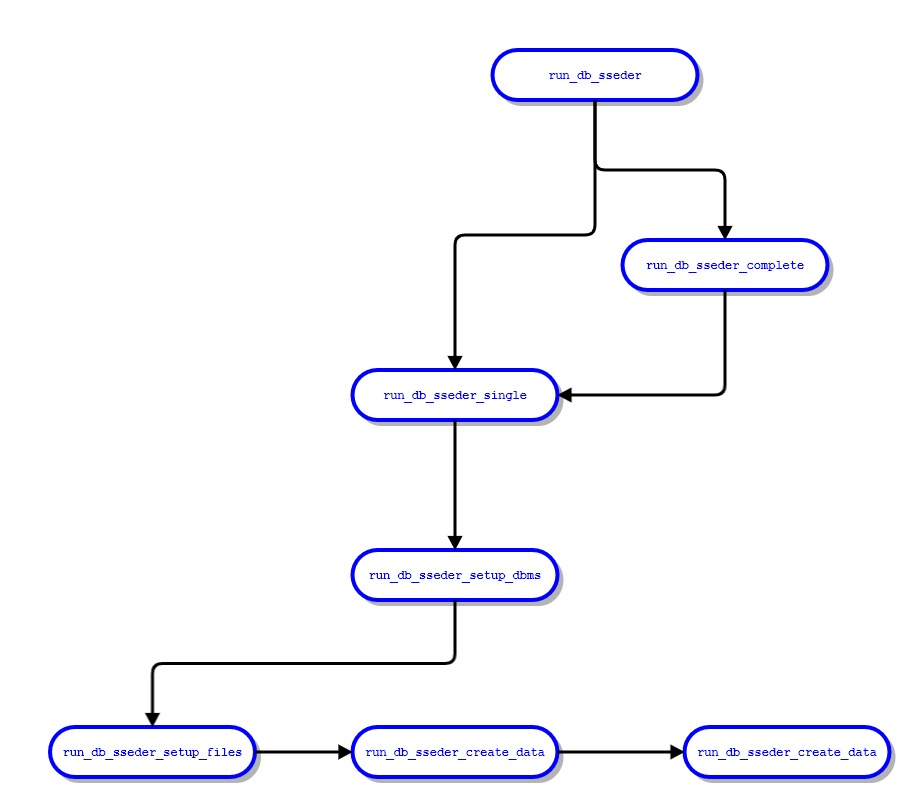
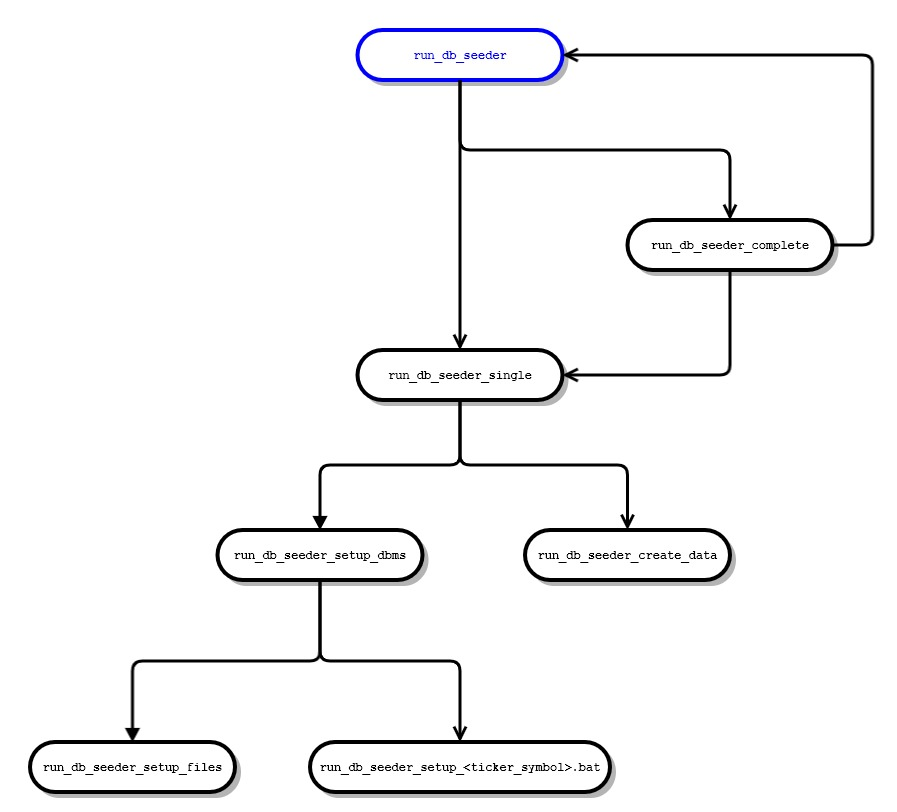
Extending and refactoring scripts (issue #40).

Changed region(s): [[0.0312, 0.0301, 0.9989, 0.9937], [0.3746, 0.0602, 0.4058, 0.0903]]

diff --git a/README.md b/README.md
@@ -243,51 +243,6 @@ The following script parameters are required:
 - `DB_SEEDER_DBMS`: the ticker symbol of the desired database management system
 
 
-#### 4.1.3 Script `run_db_seeder_complete`
-
-The `run_db_seeder_complete` script allows a complete run-through for all DBMS, 
-i.e. it performs the following processing for each implemented DBMS: 
-
-1. `run_db_seeder_setup_dbms`
-1. `run_db_seeder`
-1. `run_db_seeder`
-
-A statistics file is created with the respective runtimes.
-No script parameters are required. 
- 
-#### 4.1.4 Script `run_db_seeder_create_data`
-
-The `run_db_seeder` script generates dummy data for a selected DBMS.
-Prerequisite is a connection to a suitable Database, e.g. via a Docker container.
-The following script parameter is required: 
-
-- `DB_SEEDER_DBMS_DEFAULT`: the ticker symbol of the desired database management system
-
-
-#### 4.1.5 Script `run_db_seeder_setup_dbms`
-
-The `run_db_seeder_setup_dbms` script creates an empty database for a selected DBMS.
-With all client DBMS this database is based on a corresponding Docker image.
-Therefore, the prerequisite is that Docker is started and a suitable connection to the Internet exists.
-The following script parameters are required: 
-
-- `DB_SEEDER_DBMS_DEFAULT`: the ticker symbol of the desired database management system
- 
-#### 4.1.6 Script `run_db_seeder_setup_files`
-
-The `run_db_seeder_setup_dbms` script creates an empty database for a selected DBMS.
-With all client DBMS this database is based on a corresponding Docker image.
-Therefore, the prerequisite is that Docker is started and a suitable connection to the Internet exists.
-The following script parameters are required: 
-
-#### 4.1.7 Script `run_db_seeder_single`
-
-The `run_db_seeder` script generates dummy data for a selected DBMS.
-Prerequisite is a connection to a suitable Database, e.g. via a Docker container.
-The following script parameter is required: 
-
-- `DB_SEEDER_DBMS_DEFAULT`: the ticker symbol of the desired database management system
- 
 [//]: # (===========================================================================================)
 
 ### <a name="operating_instructions_control"></a> 4.2 Control Parameters
@@ -298,63 +253,71 @@ The flow control parameters for **`db_seeder`** are stored in the properties fil
 The following control parameters are currently supported:
 
 ```
+db_seeder.cratedb.connection.host=localhost
 db_seeder.cratedb.connection.port=5432
 db_seeder.cratedb.connection.prefix=crate://
 db_seeder.cratedb.password=cratedb
 db_seeder.cratedb.user.sys=crate
 db_seeder.cratedb.user=kxn_user
 
+db_seeder.cubrid.connection.host=localhost
 db_seeder.cubrid.connection.port=33000
 db_seeder.cubrid.connection.prefix=jdbc:CUBRID:
 db_seeder.cubrid.connection.suffix=::
-db_seeder.cubrid.database=kxn_db
+db_seeder.cubrid.database=see script run_db_seeder
 db_seeder.cubrid.password=cubrid
 db_seeder.cubrid.user.sys=DBA
 db_seeder.cubrid.user=kxn_user
 
+db_seeder.derby.connection.host=localhost
 db_seeder.derby.connection.port=1527
 db_seeder.derby.connection.prefix=jdbc:derby:
-db_seeder.derby.database=./tmp/kxn_db
+db_seeder.derby.database=kxn_db
 
 db_seeder.encoding.iso_8859_1=true
 db_seeder.encoding.utf_8=true
 
 db_seeder.file.statistics.delimiter=\t
 db_seeder.file.statistics.header=ticker symbol;DBMS;client / embedded;runtime in seconds;start time;end time;host name;no. cores;operating system
-db_seeder.file.statistics.name=statistics/db_seeder.tsv
+db_seeder.file.statistics.name=statistics/db_seeder_local.tsv
 
+db_seeder.firebird.connection.host=localhost
 db_seeder.firebird.connection.port=3050
 db_seeder.firebird.connection.prefix=jdbc:firebirdsql://
 db_seeder.firebird.connection.suffix=?encoding=UTF8&useFirebirdAutocommit=true&useStreamBlobs=true
-db_seeder.firebird.database=kxn_db
+db_seeder.firebird.database=see script run_db_seeder
 db_seeder.firebird.password.sys=firebird
 db_seeder.firebird.password=firebird
 db_seeder.firebird.user.sys=SYSDBA
 db_seeder.firebird.user=kxn_user
 
+db_seeder.h2.connection.host=localhost
 db_seeder.h2.connection.port=9092
 db_seeder.h2.connection.prefix=jdbc:h2:
-db_seeder.h2.database=./tmp/kxn_db
+db_seeder.h2.database=kxn_db
 db_seeder.h2.password=h2
 db_seeder.h2.schema=kxn_schema
 db_seeder.h2.user=kxn_user
 
+db_seeder.hsqldb.connection.host=localhost
 db_seeder.hsqldb.connection.port=9001
 db_seeder.hsqldb.connection.prefix=jdbc:hsqldb:
 db_seeder.hsqldb.connection.suffix=;ifexists=false;shutdown=true
-db_seeder.hsqldb.database=./tmp/kxn_db
+db_seeder.hsqldb.database=see script run_db_seeder
 db_seeder.hsqldb.password=hsqldb
 db_seeder.hsqldb.schema=kxn_schema
 db_seeder.hsqldb.user.sys=SA
 db_seeder.hsqldb.user=kxn_user
 
+db_seeder.ibmdb2.connection.host=localhost
 db_seeder.ibmdb2.connection.port=50000
 db_seeder.ibmdb2.connection.prefix=jdbc:db2://
-db_seeder.ibmdb2.database=kxn_db
+db_seeder.ibmdb2.database=see script run_db_seeder
 db_seeder.ibmdb2.password.sys=ibmdb2
 db_seeder.ibmdb2.schema=kxn_schema
 db_seeder.ibmdb2.user.sys=db2inst1
 
+db_seeder.informix.connection.host=localhost
 db_seeder.informix.connection.port=9088
 db_seeder.informix.connection.prefix=jdbc:informix-sqli://
 db_seeder.informix.connection.suffix=:INFORMIXSERVER=informix
@@ -363,8 +326,7 @@ db_seeder.informix.database=kxn_db
 db_seeder.informix.password.sys=in4mix
 db_seeder.informix.user.sys=informix
 
-db_seeder.jdbc.connection.host=localhost
-
+db_seeder.mariadb.connection.host=localhost
 db_seeder.mariadb.connection.port=3306
 db_seeder.mariadb.connection.prefix=jdbc:mariadb://
 db_seeder.mariadb.database.sys=mysql
@@ -380,6 +342,7 @@ db_seeder.max.row.country=200
 db_seeder.max.row.country_state=600
 db_seeder.max.row.timezone=11
 
+db_seeder.mimer.connection.host=localhost
 db_seeder.mimer.connection.port=11360
 db_seeder.mimer.connection.prefix=jdbc:mimer://
 db_seeder.mimer.database.sys=mimerdb
@@ -389,6 +352,7 @@ db_seeder.mimer.password=mimersql
 db_seeder.mimer.user.sys=SYSADM
 db_seeder.mimer.user=kxn_user
 
+db_seeder.mssqlserver.connection.host=localhost
 db_seeder.mssqlserver.connection.port=1433
 db_seeder.mssqlserver.connection.prefix=jdbc:sqlserver://
 db_seeder.mssqlserver.database.sys=master
@@ -399,6 +363,7 @@ db_seeder.mssqlserver.schema=kxn_schema
 db_seeder.mssqlserver.user.sys=sa
 db_seeder.mssqlserver.user=kxn_user
 
+db_seeder.mysql.connection.host=localhost
 db_seeder.mysql.connection.port=3306
 db_seeder.mysql.connection.prefix=jdbc:mysql://
 db_seeder.mysql.connection.suffix=?serverTimezone=UTC
@@ -409,6 +374,7 @@ db_seeder.mysql.password=mysql
 db_seeder.mysql.user.sys=root
 db_seeder.mysql.user=kxn_user
 
+db_seeder.oracle.connection.host=localhost
 db_seeder.oracle.connection.port=1521
 db_seeder.oracle.connection.prefix=jdbc:oracle:thin:@//
 db_seeder.oracle.connection.service=orclpdb1
@@ -417,6 +383,7 @@ db_seeder.oracle.password=oracle
 db_seeder.oracle.user=kxn_user
 db_seeder.oracle.user.sys=SYS AS SYSDBA
 
+db_seeder.postgresql.connection.host=localhost
 db_seeder.postgresql.connection.port=5432
 db_seeder.postgresql.connection.prefix=jdbc:postgresql://
 db_seeder.postgresql.database.sys=kxn_db_sys
@@ -427,7 +394,7 @@ db_seeder.postgresql.user.sys=kxn_user_sys
 db_seeder.postgresql.user=kxn_user
 
 db_seeder.sqlite.connection.prefix=jdbc:sqlite:
-db_seeder.sqlite.database=tmp/kxn_db
+db_seeder.sqlite.database=see script run_db_seeder
 ```
 
 #### 4.2.2 Explanation and Cross-reference
